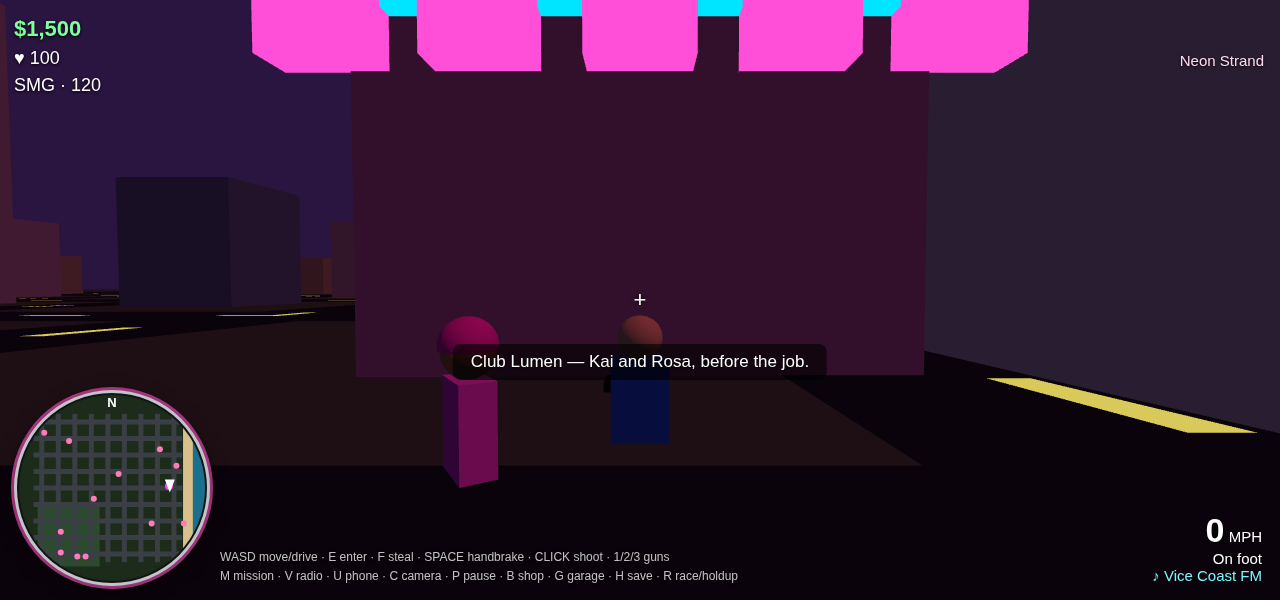
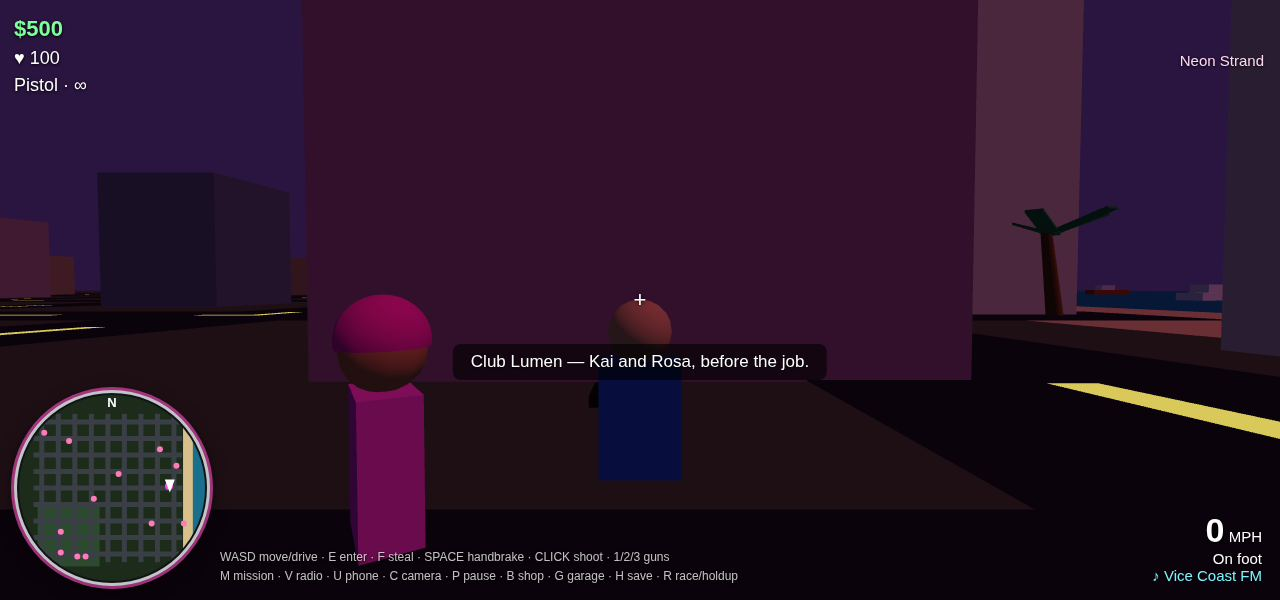
Fix: garage screenshot camera no longer shoots through the customs building

diff --git a/game/src/main.js b/game/src/main.js
@@ -219,11 +219,13 @@ function updateCamera(dt) {
     lz = P.z + Math.cos(P.heading) * 6;
     ly = 2.0;
   } else if (G.shotMode === 'garage') {
-    cx = P.x + 10;
-    cy = 5;
-    cz = P.z + 12;
-    lx = P.x;
-    lz = P.z;
+    // South-east of the car, looking north-west: the car reads with the
+    // Neon Customs building behind it instead of between lens and car.
+    cx = P.x + 9;
+    cy = 4.5;
+    cz = P.z - 11;
+    lx = P.x - 2;
+    lz = P.z + 4;
     ly = 1.5;
   } else {
     cx = P.x - Math.sin(G.camYaw) * dist * Math.cos(pitch);
